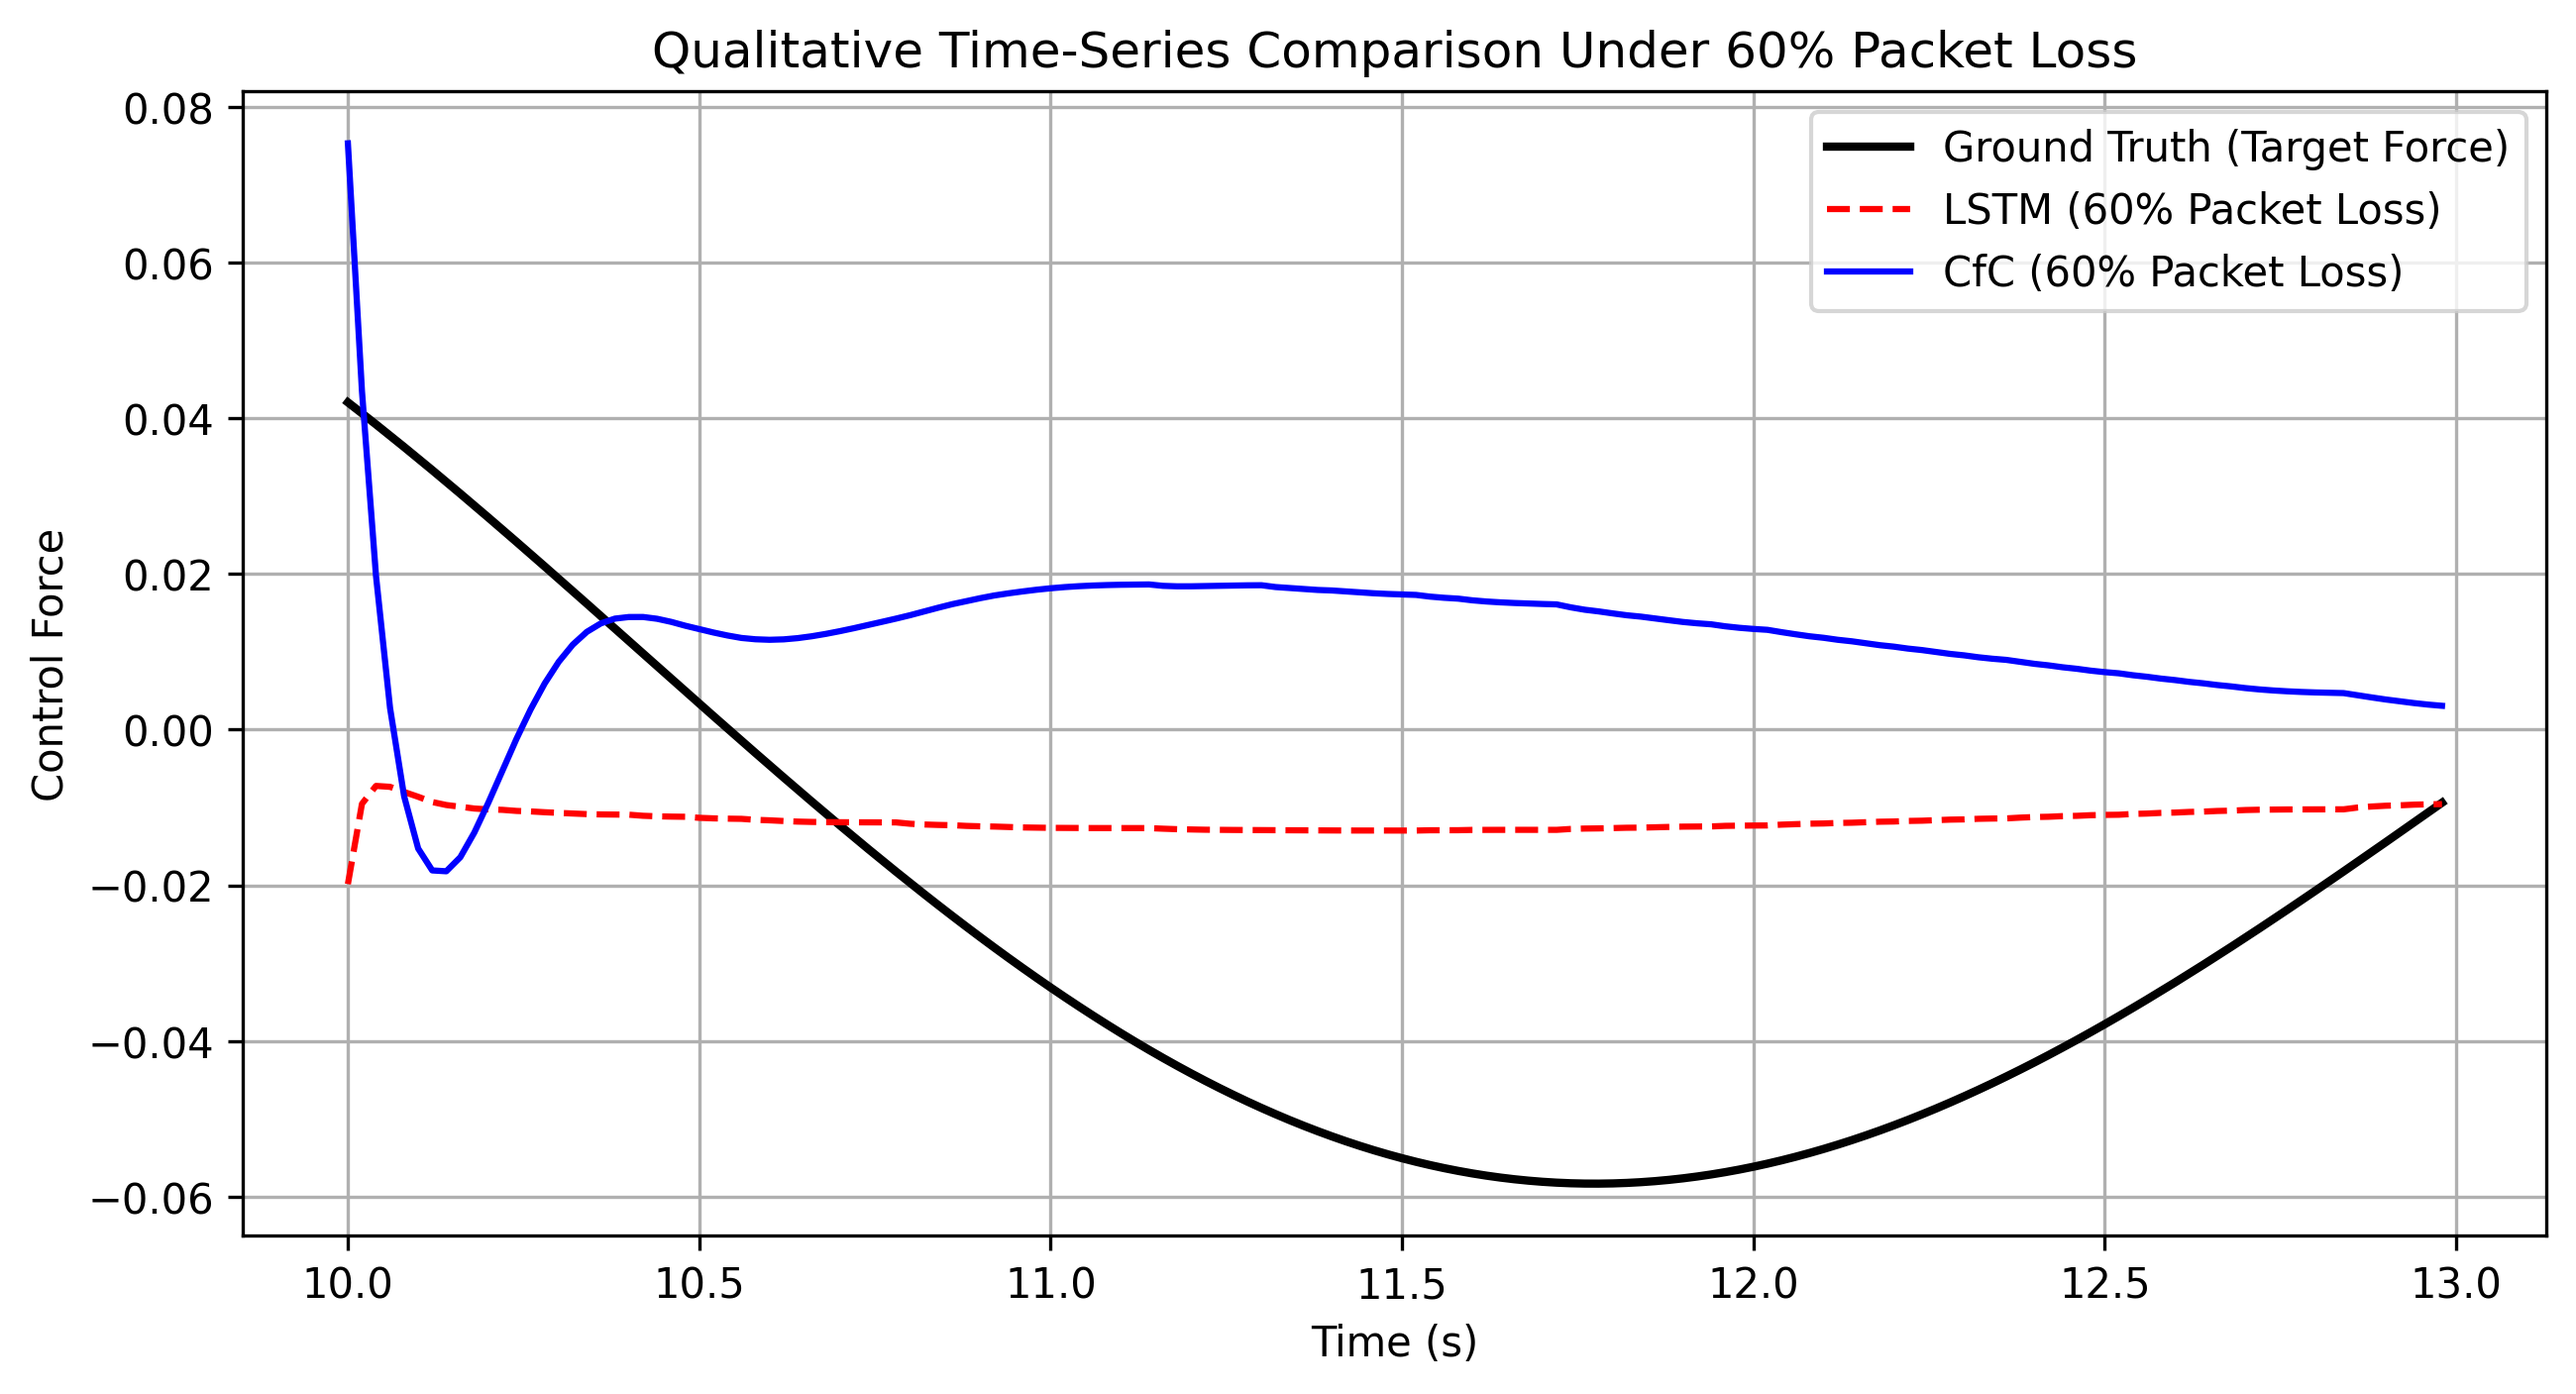
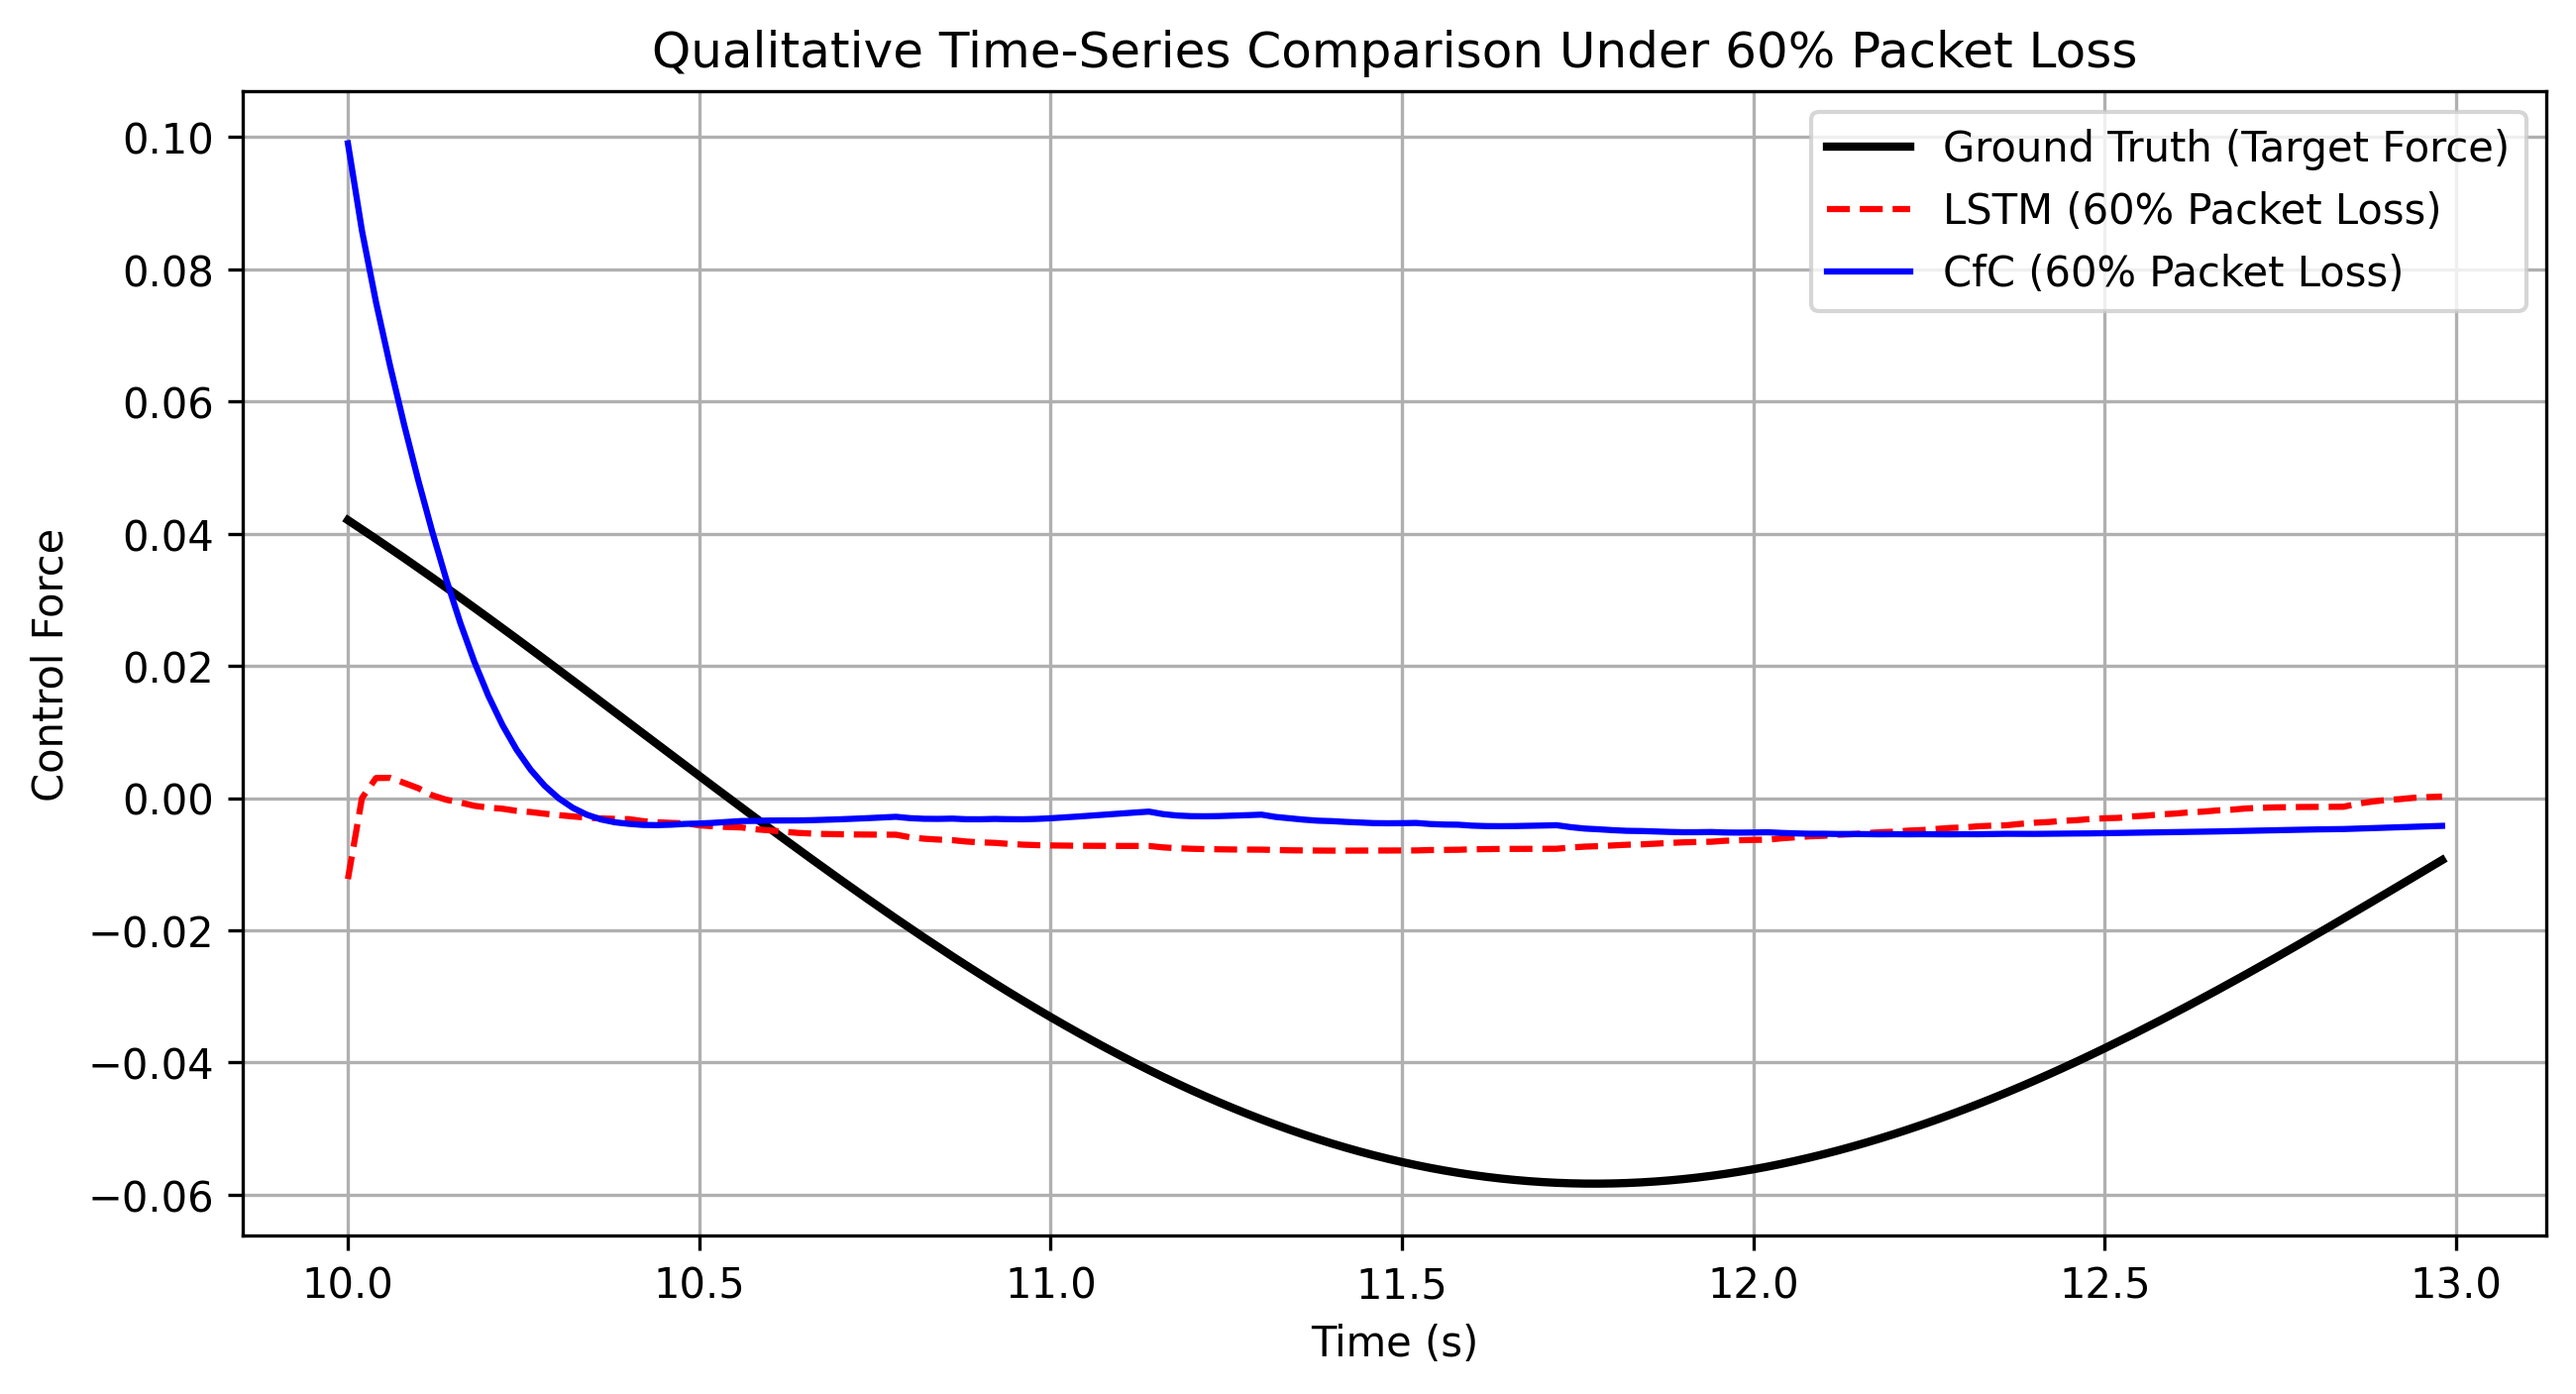
chore: retrain plot generation script for 80 epochs to ensure ground-truth tracking

diff --git a/paper_experiments/plot_timeseries.py b/paper_experiments/plot_timeseries.py
@@ -18,15 +18,15 @@ def generate_plot():
     hidden_dim = 16
     torch.manual_seed(42)
     
-    # Train CfC fast
+    # Train CfC properly
     print("Training CfC...")
     cfc = ContinuousCfC(4, hidden_dim, 1)
-    cfc = train_model(cfc, X_0, Y, T, epochs=20)
+    cfc = train_model(cfc, X_0, Y, T, epochs=80)
     
-    # Train LSTM fast
+    # Train LSTM properly
     print("Training LSTM...")
     lstm = DiscreteRNN(4, hidden_dim, 1, 'lstm')
-    lstm = train_model(lstm, X_0, Y, epochs=20)
+    lstm = train_model(lstm, X_0, Y, epochs=80)
     
     print("Evaluating sequences...")
     cfc.eval()
